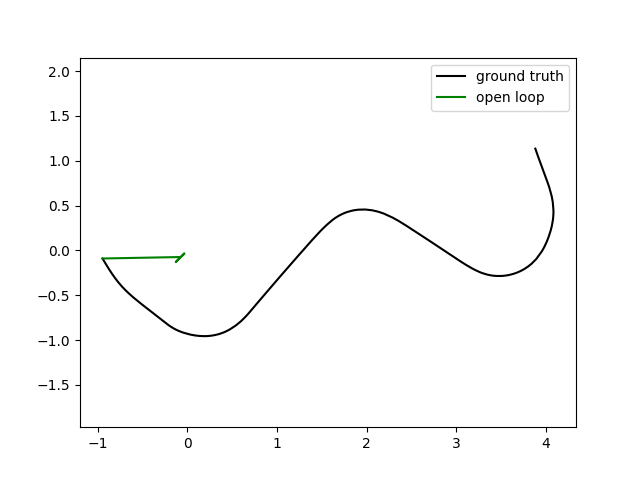
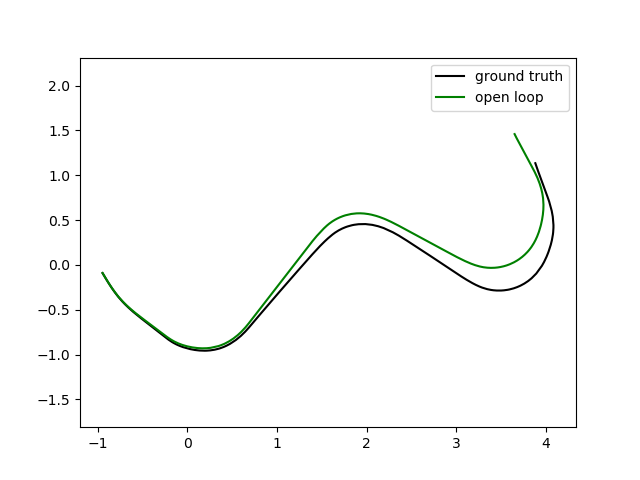
Finished p1.3

diff --git a/AA274A_HW4/validate_ekf.py b/AA274A_HW4/validate_ekf.py
@@ -314,13 +314,13 @@ def validate_ekf_slam():
 if __name__ == '__main__':
     ### PROBLEM 1
     validate_ekf_transition_update()
-    validate_ekf_localization()
+    # validate_ekf_localization()
 
     ## Subcomponent validation
-    validate_localization_transition_model()
-    validate_localization_compute_predicted_measurements()
-    validate_localization_compute_innovations()
+    # validate_localization_transition_model()
+    # validate_localization_compute_predicted_measurements()
+    # validate_localization_compute_innovations()
 
     ### PROBLEM 2
 
-    validate_ekf_slam()
+    # validate_ekf_slam()

diff --git a/AA274A_HW4/HW4/turtlebot_model.py b/AA274A_HW4/HW4/turtlebot_model.py
@@ -96,8 +96,8 @@ def compute_dynamics(xvec, u, dt, compute_jacobians=True):
    
     g = np.array([x_new, y_new , theta_new])
 
-    Gx = compute_Gx
-    Gu = compute_Gu
+    Gx = compute_Gx(xvec, u, dt)
+    Gu = compute_Gu(xvec, u, dt)
     ########## Code ends here ##########
 
     if not compute_jacobians:
